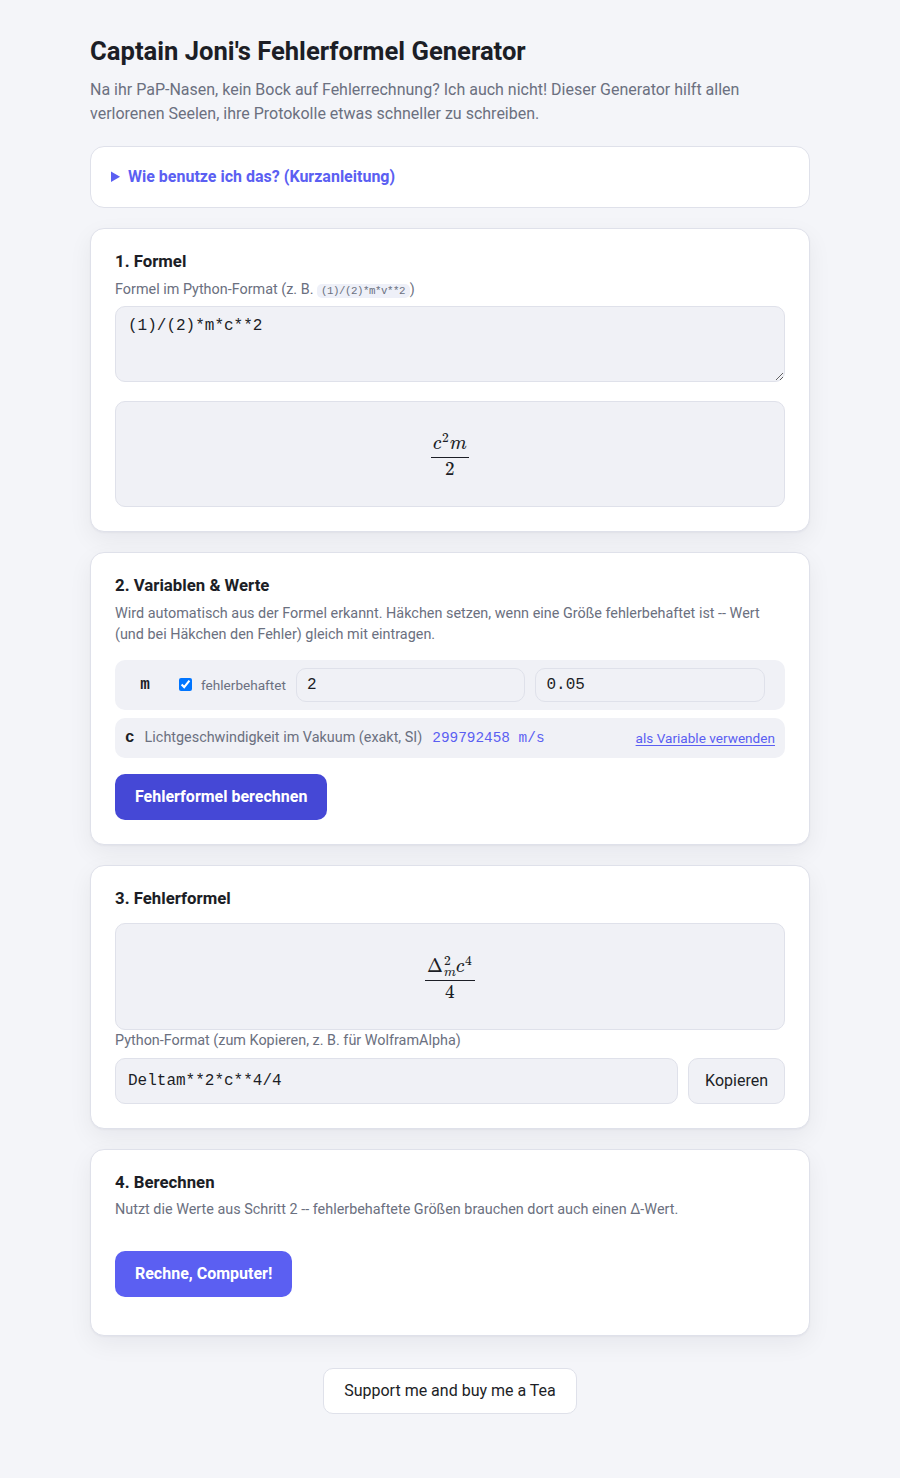
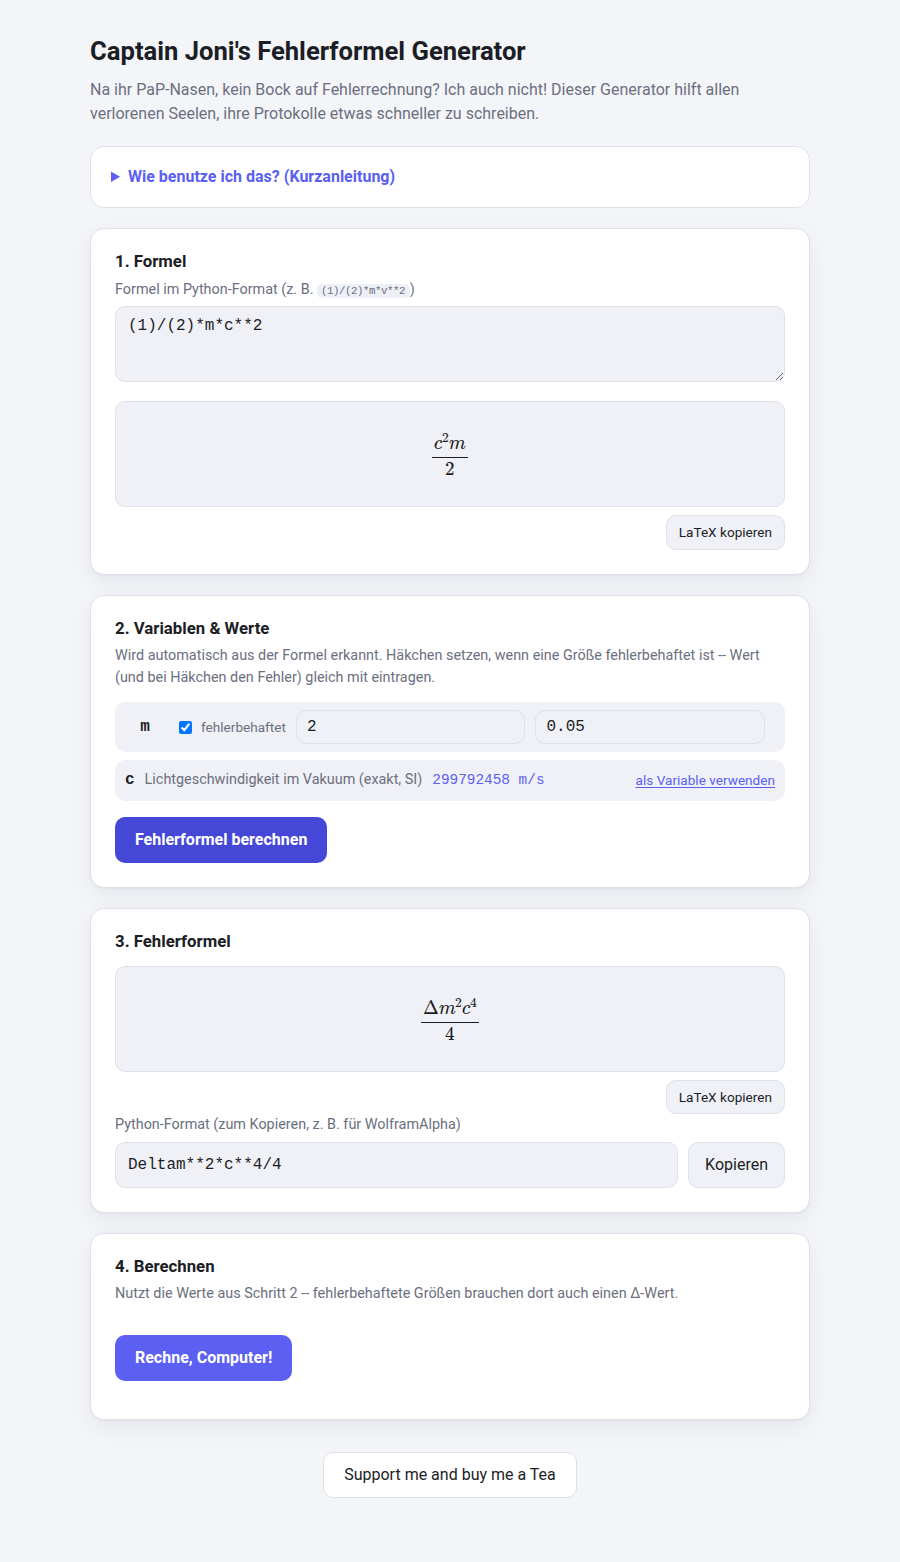
Fix Delta-symbol LaTeX rendering; add copy-LaTeX buttons
Delta rendering was wrong since the very first FastAPI rewrite: to_latex()
pattern-matched any symbol named 'Delta<something>' and printed it
subscripted (\Delta_{m}), which (a) reads ambiguously once squared --
'\Delta_{m}^{2}' looks like 'Delta sub m, sup 2', not '(Delta m) squared'
-- and (b) could misfire on a real user variable that just happened to
start with 'Delta' (e.g. a genuine 'DeltaT' for a temperature difference),
silently 'prettifying' something that was never one of our synthesized
error terms.

Fixed by having differentiate() hand back exactly which symbols it
generated (delta_symbols: {Symbol('DeltaX'): 'X', ...}) instead of having
to_latex() guess from names after the fact, and printing those via SymPy's
symbol_names option as adjacent '\Delta m' rather than a subscript.
python_equation / evaluate()'s bindings are untouched -- this only ever
affected the rendered LaTeX.

Also add a 'LaTeX kopieren' button next to both the formula preview and
the error formula, copying the raw 2014993...2014993-wrapped LaTeX source (as
opposed to the existing Python-format copy button, which is for reusing
the expression as code). Shared copyToClipboard() helper with a
document.execCommand fallback for non-HTTPS/older contexts.

Verified with a Python REPL against mathcore directly, curl, and a full
Playwright pass (incl. clipboard reads) through both fixes; README
screenshots regenerated to match.

diff --git a/public/app.js b/public/app.js
@@ -56,6 +56,43 @@ function renderLatex(container, latex) {
     }
 }
 
+async function copyToClipboard(text, button) {
+    if (!text) {
+        showError('Nichts zum Kopieren vorhanden.');
+        return;
+    }
+    let copied = false;
+    try {
+        await navigator.clipboard.writeText(text);
+        copied = true;
+    } catch {
+        // Fallback for browsers/contexts without the async Clipboard API (e.g. non-HTTPS)
+        const tmp = document.createElement('textarea');
+        tmp.value = text;
+        tmp.style.position = 'fixed';
+        tmp.style.opacity = '0';
+        document.body.appendChild(tmp);
+        tmp.focus();
+        tmp.select();
+        try {
+            copied = document.execCommand('copy');
+        } catch {
+            copied = false;
+        }
+        document.body.removeChild(tmp);
+    }
+
+    if (!copied) {
+        showError('Automatisches Kopieren nicht verfügbar -- bitte manuell markieren und kopieren (Strg+C).');
+        return;
+    }
+    if (button) {
+        const original = button.textContent;
+        button.textContent = 'Kopiert!';
+        setTimeout(() => { button.textContent = original; }, 1200);
+    }
+}
+
 function formatNumber(n) {
     if (n === null || n === undefined) return '';
     const num = Number(n);
@@ -210,6 +247,8 @@ function collectErrorCarryingVariables() {
 // ---------- state used between the "differentiate" and "calc" steps ----------
 
 let currentErrorEquation = '';
+let currentPreviewLatex = '';
+let currentErrorLatex = '';
 
 // ---------- actions ----------
 
@@ -218,6 +257,7 @@ async function runPreview() {
     const previewBox = document.getElementById('latex-output_2');
     if (!formula.trim()) {
         previewBox.textContent = '';
+        currentPreviewLatex = '';
         currentVariables = [];
         renderVariablePanel();
         return;
@@ -225,6 +265,7 @@ async function runPreview() {
     try {
         const data = await postJSON('/api/preview', { formula });
         renderLatex(previewBox, data.latex);
+        currentPreviewLatex = data.latex;
         currentVariables = data.variables;
         renderVariablePanel();
         showError('');
@@ -245,6 +286,7 @@ async function runDifferentiate() {
     try {
         const data = await postJSON('/api/differentiate', { formula, variables });
         currentErrorEquation = data.python_equation;
+        currentErrorLatex = data.latex;
 
         document.getElementById('error-formula-card').hidden = false;
         renderLatex(document.getElementById('latex-output'), data.latex);
@@ -277,21 +319,6 @@ async function runCalc() {
     }
 }
 
-async function copyEquation() {
-    const field = document.getElementById('python-equation');
-    if (!field.value) return;
-    try {
-        await navigator.clipboard.writeText(field.value);
-        const button = document.getElementById('copy-equation');
-        const original = button.textContent;
-        button.textContent = 'Kopiert!';
-        setTimeout(() => { button.textContent = original; }, 1200);
-    } catch {
-        field.select();
-        showError('Automatisches Kopieren nicht verfügbar -- Text wurde markiert, bitte manuell kopieren (Strg+C).');
-    }
-}
-
 // ---------- wiring ----------
 
 document.getElementById('formula').addEventListener('input', debounce(() => {
@@ -303,7 +330,16 @@ document.getElementById('formula').addEventListener('input', debounce(() => {
 
 document.getElementById('fehlerformel').addEventListener('click', runDifferentiate);
 document.getElementById('ausrechnen').addEventListener('click', runCalc);
-document.getElementById('copy-equation').addEventListener('click', copyEquation);
+
+document.getElementById('copy-equation').addEventListener('click', (e) => {
+    copyToClipboard(document.getElementById('python-equation').value, e.currentTarget);
+});
+document.getElementById('copy-latex-preview').addEventListener('click', (e) => {
+    copyToClipboard(currentPreviewLatex && `$$${currentPreviewLatex}$$`, e.currentTarget);
+});
+document.getElementById('copy-latex-error').addEventListener('click', (e) => {
+    copyToClipboard(currentErrorLatex && `$$${currentErrorLatex}$$`, e.currentTarget);
+});
 
 // ---------- restore persisted state on load ----------
 

diff --git a/public/index.html b/public/index.html
@@ -44,6 +44,9 @@
             <label for="formula">Formel im Python-Format (z.&nbsp;B. <code>(1)/(2)*m*v**2</code>)</label>
             <textarea id="formula" rows="3" spellcheck="false" placeholder="(1)/(2)*m*v**2"></textarea>
             <div class="latex-box" id="latex-output_2" aria-live="polite"></div>
+            <div class="latex-toolbar">
+                <button id="copy-latex-preview" type="button" class="secondary-button">LaTeX kopieren</button>
+            </div>
         </section>
 
         <section class="card">
@@ -58,6 +61,9 @@
         <section class="card" id="error-formula-card" hidden>
             <h2>3. Fehlerformel</h2>
             <div class="latex-box" id="latex-output" aria-live="polite"></div>
+            <div class="latex-toolbar">
+                <button id="copy-latex-error" type="button" class="secondary-button">LaTeX kopieren</button>
+            </div>
             <label for="python-equation">Python-Format (zum Kopieren, z.&nbsp;B. für WolframAlpha)</label>
             <div class="copy-row">
                 <input id="python-equation" type="text" readonly />

diff --git a/public/styles.css b/public/styles.css
@@ -286,6 +286,17 @@ button:active {
 
 /* ---------- misc ---------- */
 
+.latex-toolbar {
+    display: flex;
+    justify-content: flex-end;
+    margin-top: 8px;
+}
+
+.latex-toolbar .secondary-button {
+    padding: 6px 12px;
+    font-size: 0.85em;
+}
+
 .copy-row {
     display: flex;
     gap: 10px;

diff --git a/app/mathcore.py b/app/mathcore.py
@@ -96,24 +96,33 @@ def parse_formula(formula: str) -> sp.Expr:
     return expr
 
 
-_DELTA_PREFIX_RE = re.compile(r"^Delta(?P<rest>[A-Za-z_][A-Za-z0-9_]*)$")
+def to_latex(expr: sp.Expr, delta_symbols: dict[sp.Symbol, str] | None = None) -> str:
+    """Render an expression as LaTeX.
 
-
-def to_latex(expr: sp.Expr) -> str:
-    """Render an expression as LaTeX, prettying up `DeltaX` symbols into `\\Delta_{X}`.
-
-    Purely cosmetic (display only -- the `DeltaX` naming convention used
-    everywhere else, e.g. `evaluate()`'s variable bindings, is untouched):
-    SymPy's printer already turns `Delta_m` into `\\Delta_{m}` via its
-    Greek-letter-name recognition, but not the no-separator `Deltam` this
-    app actually uses, so re-symbol it with an underscore just for display.
+    `delta_symbols`, when given, maps an auto-generated error-term symbol
+    (e.g. `Symbol('Deltam')`, as produced by `differentiate()` below) to its
+    base variable name (`"m"`); those specific symbols are printed as
+    `\\Delta m` instead of the literal word "Deltam". This only ever touches
+    the exact synthetic symbols `differentiate()` built -- never a
+    same-looking name that happens to occur in the user's own formula (e.g.
+    a variable genuinely called `DeltaT` for a temperature difference stays
+    printed as `DeltaT`, verbatim, since it isn't one of our error terms).
+    An earlier version of this function instead pattern-matched any symbol
+    named `Delta<something>` and rendered it as `\\Delta_{something}`
+    (subscript) -- both wrong: the subscript reads ambiguously once squared
+    (`\\Delta_{m}^{2}` looks like "Delta sub m, sup 2", not "(Delta m)
+    squared"), and the name-pattern match would misfire on a real variable
+    that happened to start with "Delta". Purely a display concern either
+    way -- `python_equation`/`evaluate()`'s bindings always use the literal
+    `DeltaX` name and are unaffected by any of this.
     """
-    display_expr = expr.xreplace({
-        s: sp.Symbol(f"Delta_{match.group('rest')}")
-        for s in expr.free_symbols
-        if (match := _DELTA_PREFIX_RE.match(str(s)))
-    })
-    return sp.latex(display_expr)
+    if not delta_symbols:
+        return sp.latex(expr)  # sympy's latex() treats an explicit symbol_names=None as a dict and breaks
+    symbol_names = {
+        symbol: f"\\Delta {sp.latex(sp.Symbol(base_name))}"
+        for symbol, base_name in delta_symbols.items()
+    }
+    return sp.latex(expr, symbol_names=symbol_names)
 
 
 def detect_variables(formula: str, expr: sp.Expr) -> list[str]:
@@ -158,15 +167,22 @@ def variable_info(names: list[str]) -> list[dict]:
     return info
 
 
-def differentiate(formula: str, variables: list[str]) -> tuple[sp.Expr, sp.Expr]:
+def differentiate(
+    formula: str, variables: list[str]
+) -> tuple[sp.Expr, sp.Expr, dict[sp.Symbol, str]]:
     """Build the Gaussian error-propagation formula for `formula`.
 
-    Returns (original_expr, error_expr). error_expr is the sum of squares
-    Sum_i( (df/dx_i * Delta_x_i)^2 ) *without* the outer square root -- kept
-    that way on purpose, same as the original tool: easier to read/typeset
-    for long formulas. The square root is applied at calculation time in
-    `evaluate()` instead. The uncertainty of a variable named `X` is always
-    referred to as `DeltaX` (no separator) in the generated formula.
+    Returns (original_expr, error_expr, delta_symbols). error_expr is the
+    sum of squares Sum_i( (df/dx_i * Delta_x_i)^2 ) *without* the outer
+    square root -- kept that way on purpose, same as the original tool:
+    easier to read/typeset for long formulas. The square root is applied at
+    calculation time in `evaluate()` instead. The uncertainty of a variable
+    named `X` is always referred to as `DeltaX` (no separator) in the
+    generated formula. `delta_symbols` maps each of those synthesized
+    `DeltaX` symbols back to its base variable name `X`, for `to_latex()` to
+    pretty-print with -- see `to_latex()` for why that has to happen here,
+    where we know for certain which symbols we generated, rather than by
+    guessing from a symbol's name later.
     """
     var_names = [v.strip() for v in variables if v.strip()]
     if not var_names:
@@ -175,14 +191,16 @@ def differentiate(formula: str, variables: list[str]) -> tuple[sp.Expr, sp.Expr]
     expr = parse_formula(formula)
 
     terms = []
+    delta_symbols: dict[sp.Symbol, str] = {}
     for name in var_names:
         symbol = sp.Symbol(name)
         derivative = sp.diff(expr, symbol)
         delta = sp.Symbol(f"Delta{name}")
+        delta_symbols[delta] = name
         terms.append((derivative * delta) ** 2)
 
     error_expr = sp.Add(*terms)
-    return expr, error_expr
+    return expr, error_expr, delta_symbols
 
 
 def evaluate(

diff --git a/app/main.py b/app/main.py
@@ -55,10 +55,10 @@ def preview(req: PreviewRequest) -> PreviewResponse:
 def differentiate(req: DifferentiateRequest) -> DifferentiateResponse:
     """Symbolically build the Gaussian error propagation formula."""
     try:
-        expr, error_expr = mathcore.differentiate(req.formula, req.variables)
+        expr, error_expr, delta_symbols = mathcore.differentiate(req.formula, req.variables)
         return DifferentiateResponse(
             original_latex=mathcore.to_latex(expr),
-            latex=mathcore.to_latex(error_expr),
+            latex=mathcore.to_latex(error_expr, delta_symbols),
             python_equation=str(error_expr),
         )
     except mathcore.FormulaError as exc:

diff --git a/README.md b/README.md
@@ -105,10 +105,15 @@ ticked as fehlerbehaftet.
 
 ![alt text](https://github.com/captain-joni/errorformulagenerator/blob/main/pictures/pic_4.png?raw=true)
 
-You get the LaTeX-rendered formula plus a read-only, copyable Python-format equation (handy for pasting
-into WolframAlpha or your own script). The error formula is generated without the outer square root,
-because that's easier to read/typeset for long formulas — the square root is applied when you calculate
-a numeric result instead.
+You get the LaTeX-rendered formula, a "LaTeX kopieren" button that copies the raw `$$...$$`-wrapped LaTeX
+source (paste straight into Overleaf, a Markdown doc, Jupyter, …), and a read-only, copyable Python-format
+equation (handy for pasting into WolframAlpha or your own script) — the same LaTeX-copy button is also
+available under the formula preview in step 1. The error formula is generated without the outer square
+root, because that's easier to read/typeset for long formulas — the square root is applied when you
+calculate a numeric result instead.
+
+Error terms are shown as `\Delta m` (i.e. "Δm", read as "the uncertainty of m") rather than a subscript --
+that's on purpose, since `\Delta_{m}` reads ambiguously once squared.
 
 Calculate
 ---------
